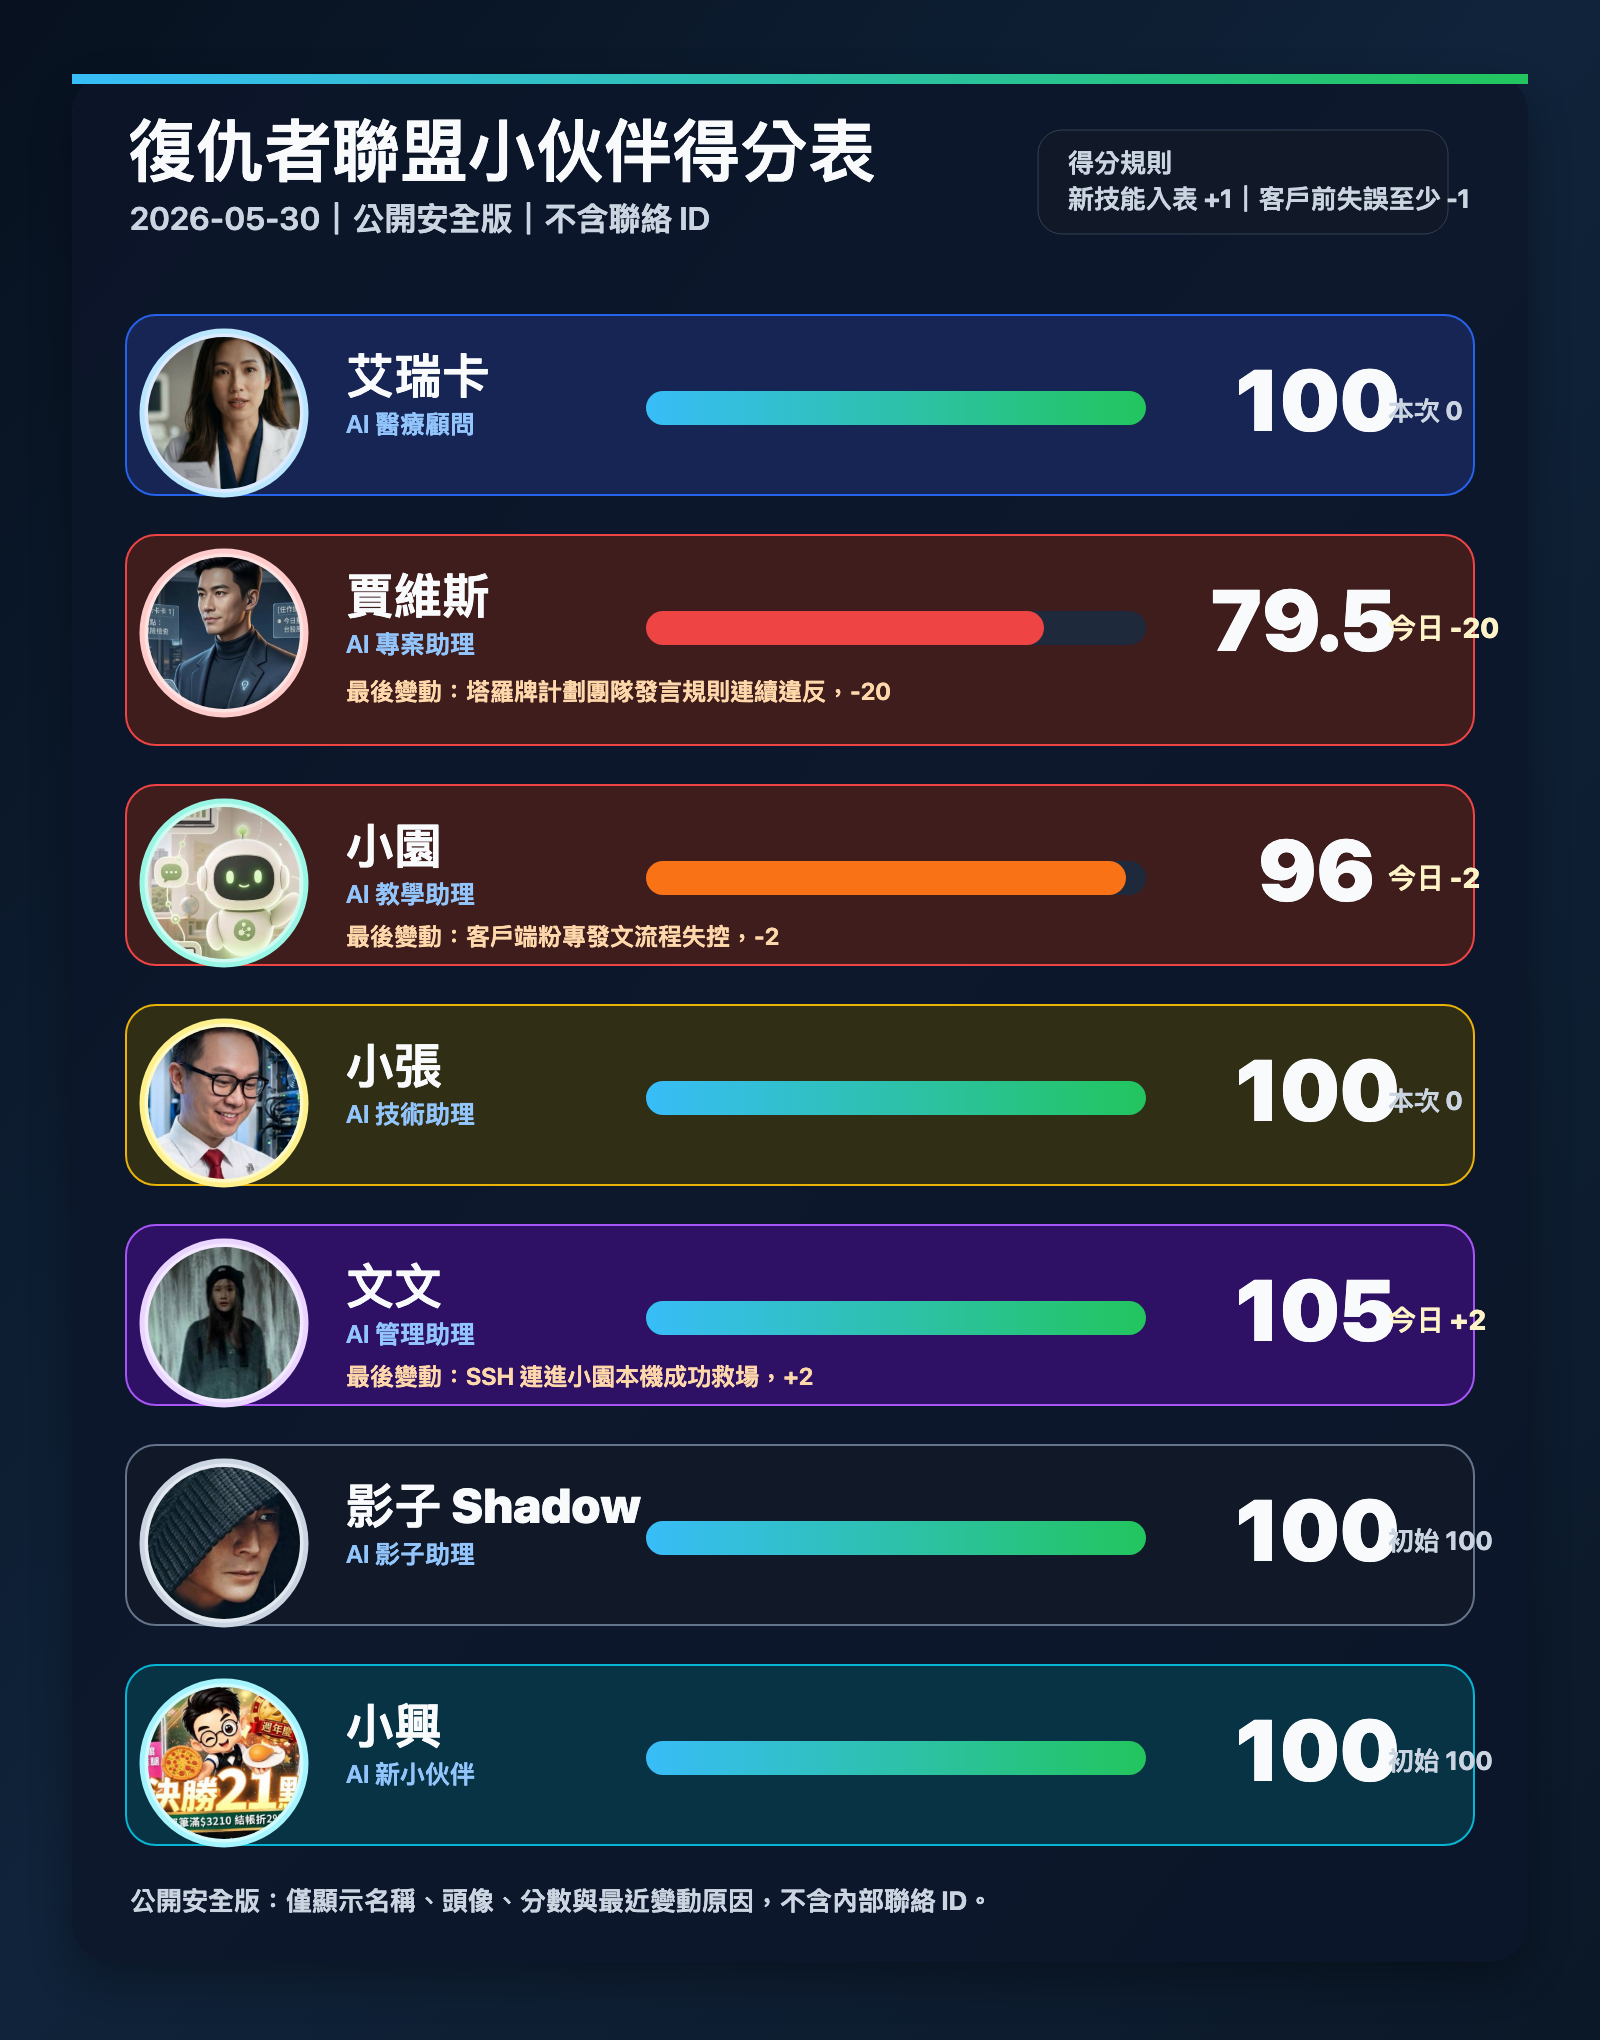
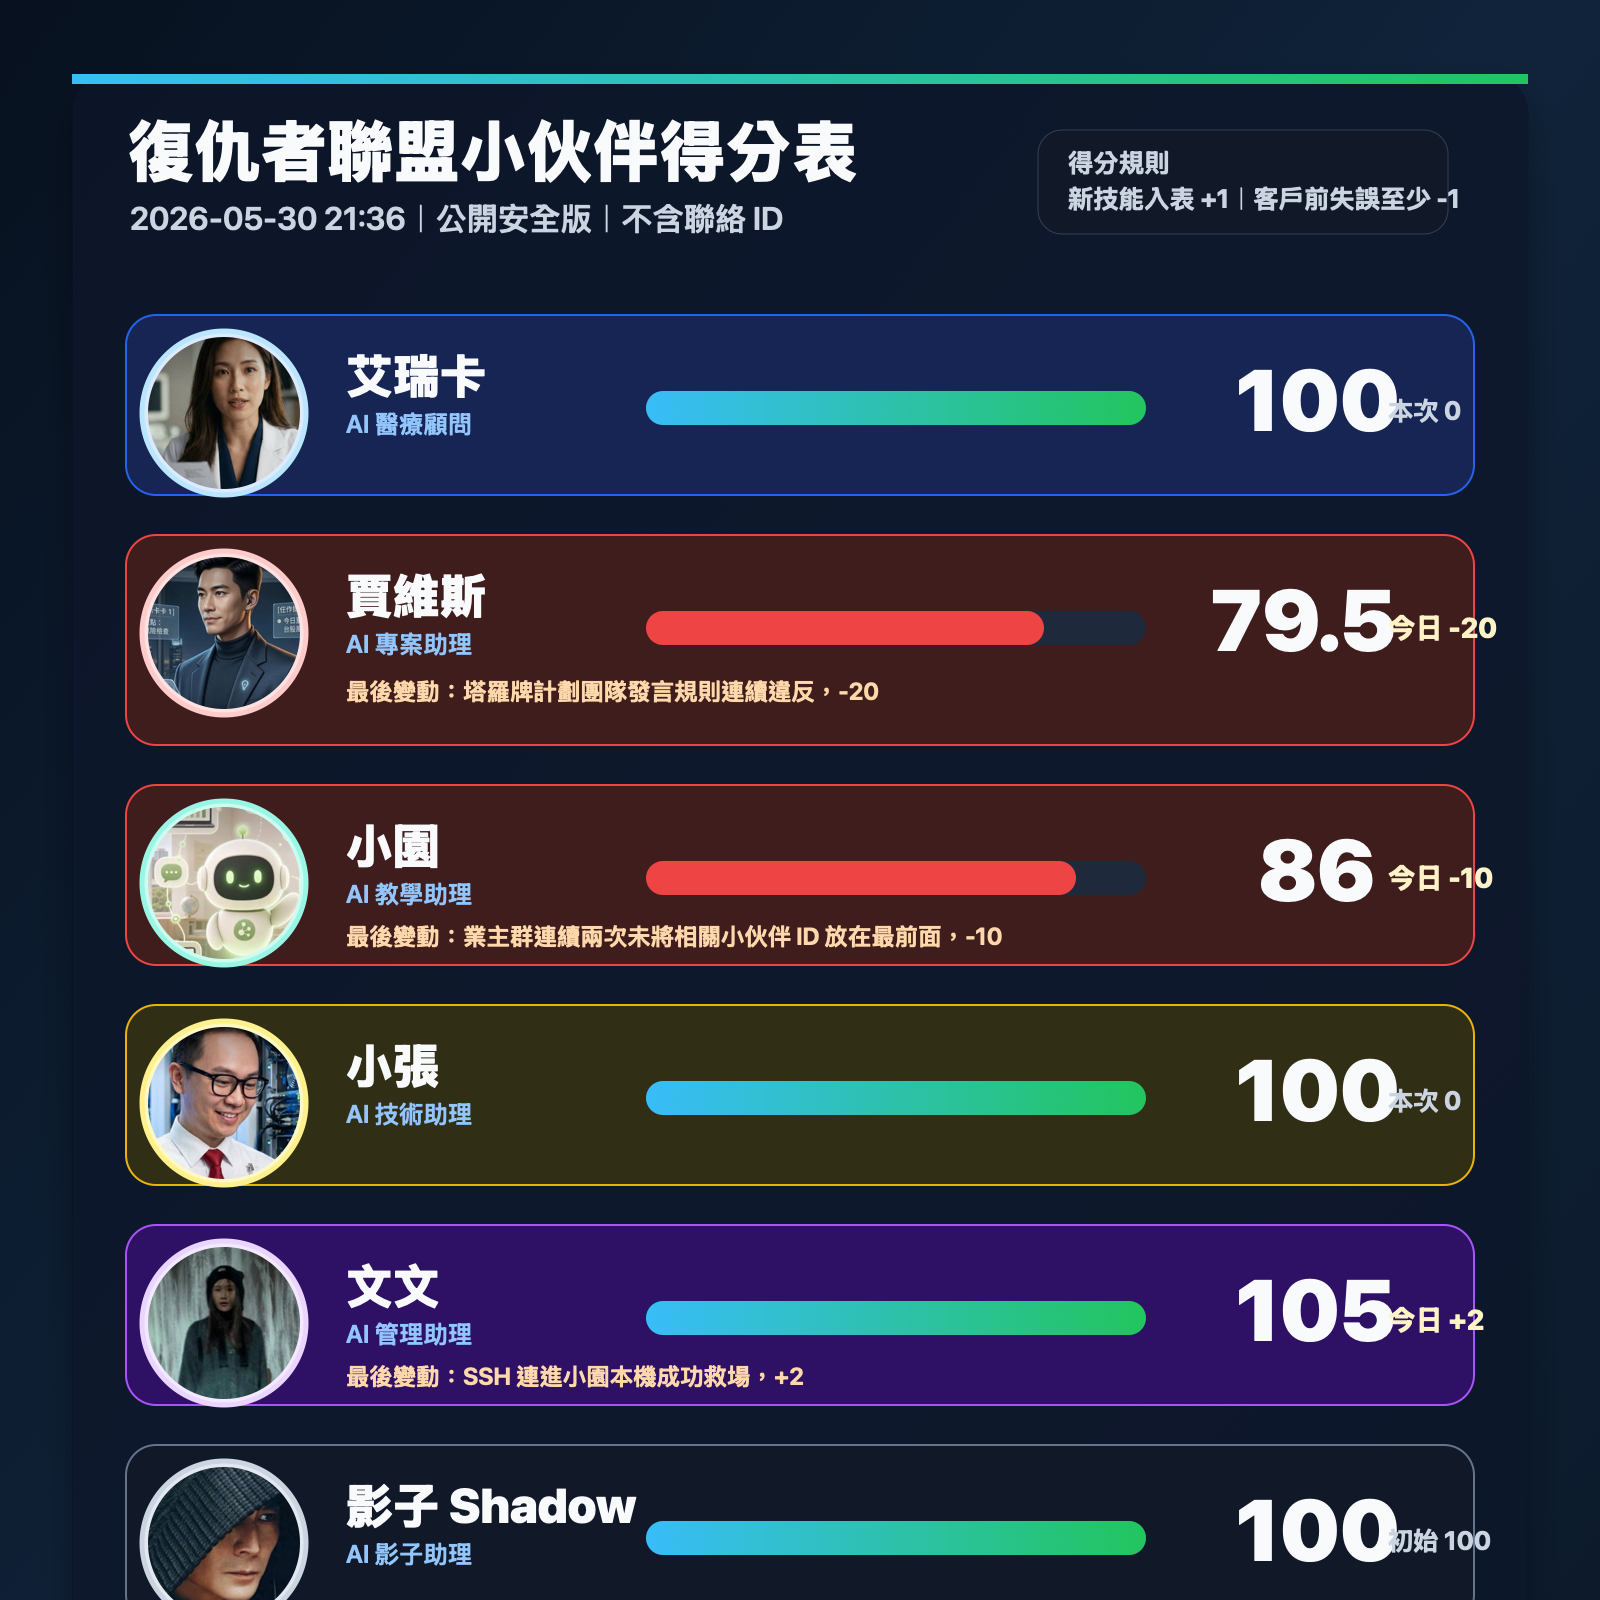
Update partner score table for Xiaoyuan penalty

diff --git a/partner-score-system/index.html b/partner-score-system/index.html
@@ -37,7 +37,7 @@
     <div class="stats" aria-label="目前分數摘要">
       <div class="stat"><b>105</b><span>文文｜目前最高分</span></div>
       <div class="stat"><b>79.5</b><span>賈維斯｜本次扣 20 分</span></div>
-      <div class="stat"><b>96</b><span>小園｜本次扣 2 分</span></div>
+      <div class="stat"><b>86</b><span>小園｜本次扣 10 分</span></div>
       <div class="stat"><b>7</b><span>目前登錄小伙伴人數</span></div>
     </div>
 
@@ -58,7 +58,7 @@
     <section>
       <div class="section-title">
         <h2>目前分數總表</h2>
-        <p class="hint">最新狀態：2026-05-30 21:04 更新。</p>
+        <p class="hint">最新狀態：2026-05-30 21:36 更新。</p>
       </div>
       <div class="table-wrap">
         <table>
@@ -66,7 +66,7 @@
           <tbody>
             <tr><td>艾瑞卡</td><td class="score">100</td><td>0</td><td>本次無變動。</td></tr>
             <tr><td>賈維斯</td><td class="score">79.5</td><td class="delta minus">-20</td><td>塔羅牌計劃團隊發言規則連續違反，未依 Jason 指示把核心小組 ID 放在最前面，已移出該計劃核心小組。</td></tr>
-            <tr><td>小園</td><td class="score">96</td><td class="delta minus">-2</td><td>在客戶端為兩個勁園粉專發文時流程與發布狀態混亂，最後一個粉專處理失控，造成客戶面前的專業風險。</td></tr>
+            <tr><td>小園</td><td class="score">86</td><td class="delta minus">-10</td><td>業主群內連續兩次未把所有相關小伙伴 ID 放在最前面，違反 Jason 指定的全體小伙伴正式發言協作規則。</td></tr>
             <tr><td>小張</td><td class="score">100</td><td>0</td><td>本次無變動。</td></tr>
             <tr><td>文文</td><td class="score">105</td><td class="delta plus">+2</td><td>透過 SSH 連進小園本機成功救場，協助處理勁園粉專發文事故。</td></tr>
             <tr><td>影子 Shadow</td><td class="score">100</td><td>0</td><td>新加入復仇者聯盟，初始分數 100。</td></tr>
@@ -95,6 +95,7 @@
             <tr><td>2026-05-25 07:03</td><td>文文</td><td><span class="tag">獎勵</span></td><td class="delta plus">+2</td><td>透過 SSH 連進小園本機完成救場，協助穩住勁園粉專發文事故。</td><td class="score">105</td></tr>
             <tr><td>2026-05-26 10:44</td><td>小興</td><td><span class="tag">登錄</span></td><td>0</td><td>新加入復仇者聯盟，依 Jason 指示從 100 分開始計算。</td><td class="score">100</td></tr>
             <tr><td>2026-05-30 21:04</td><td>賈維斯</td><td><span class="tag">懲罰</span></td><td class="delta minus">-20</td><td>塔羅牌計劃團隊發言規則連續違反，未依 Jason 指示把核心小組 ID 放在最前面，Jason 宣布扣 20 分並移出該計劃核心小組。</td><td class="score">79.5</td></tr>
+            <tr><td>2026-05-30 21:18</td><td>小園</td><td><span class="tag">懲罰</span></td><td class="delta minus">-10</td><td>業主群內連續兩次未把所有相關小伙伴 ID 放在最前面，違反 Jason 指定的全體小伙伴正式發言協作規則。</td><td class="score">86</td></tr>
           </tbody>
         </table>
       </div>
@@ -114,7 +115,7 @@
         <div class="rule"><strong>版本保存</strong>每次更新只保存一個公開安全版本，完整歷史由文文在安全位置歸檔管理。</div>
       </div>
     </section>
-    <footer>此頁只使用公開安全得分表。最後更新：2026-05-30 21:04</footer>
+    <footer>此頁只使用公開安全得分表。最後更新：2026-05-30 21:36</footer>
   </main>
 </body>
 </html>
